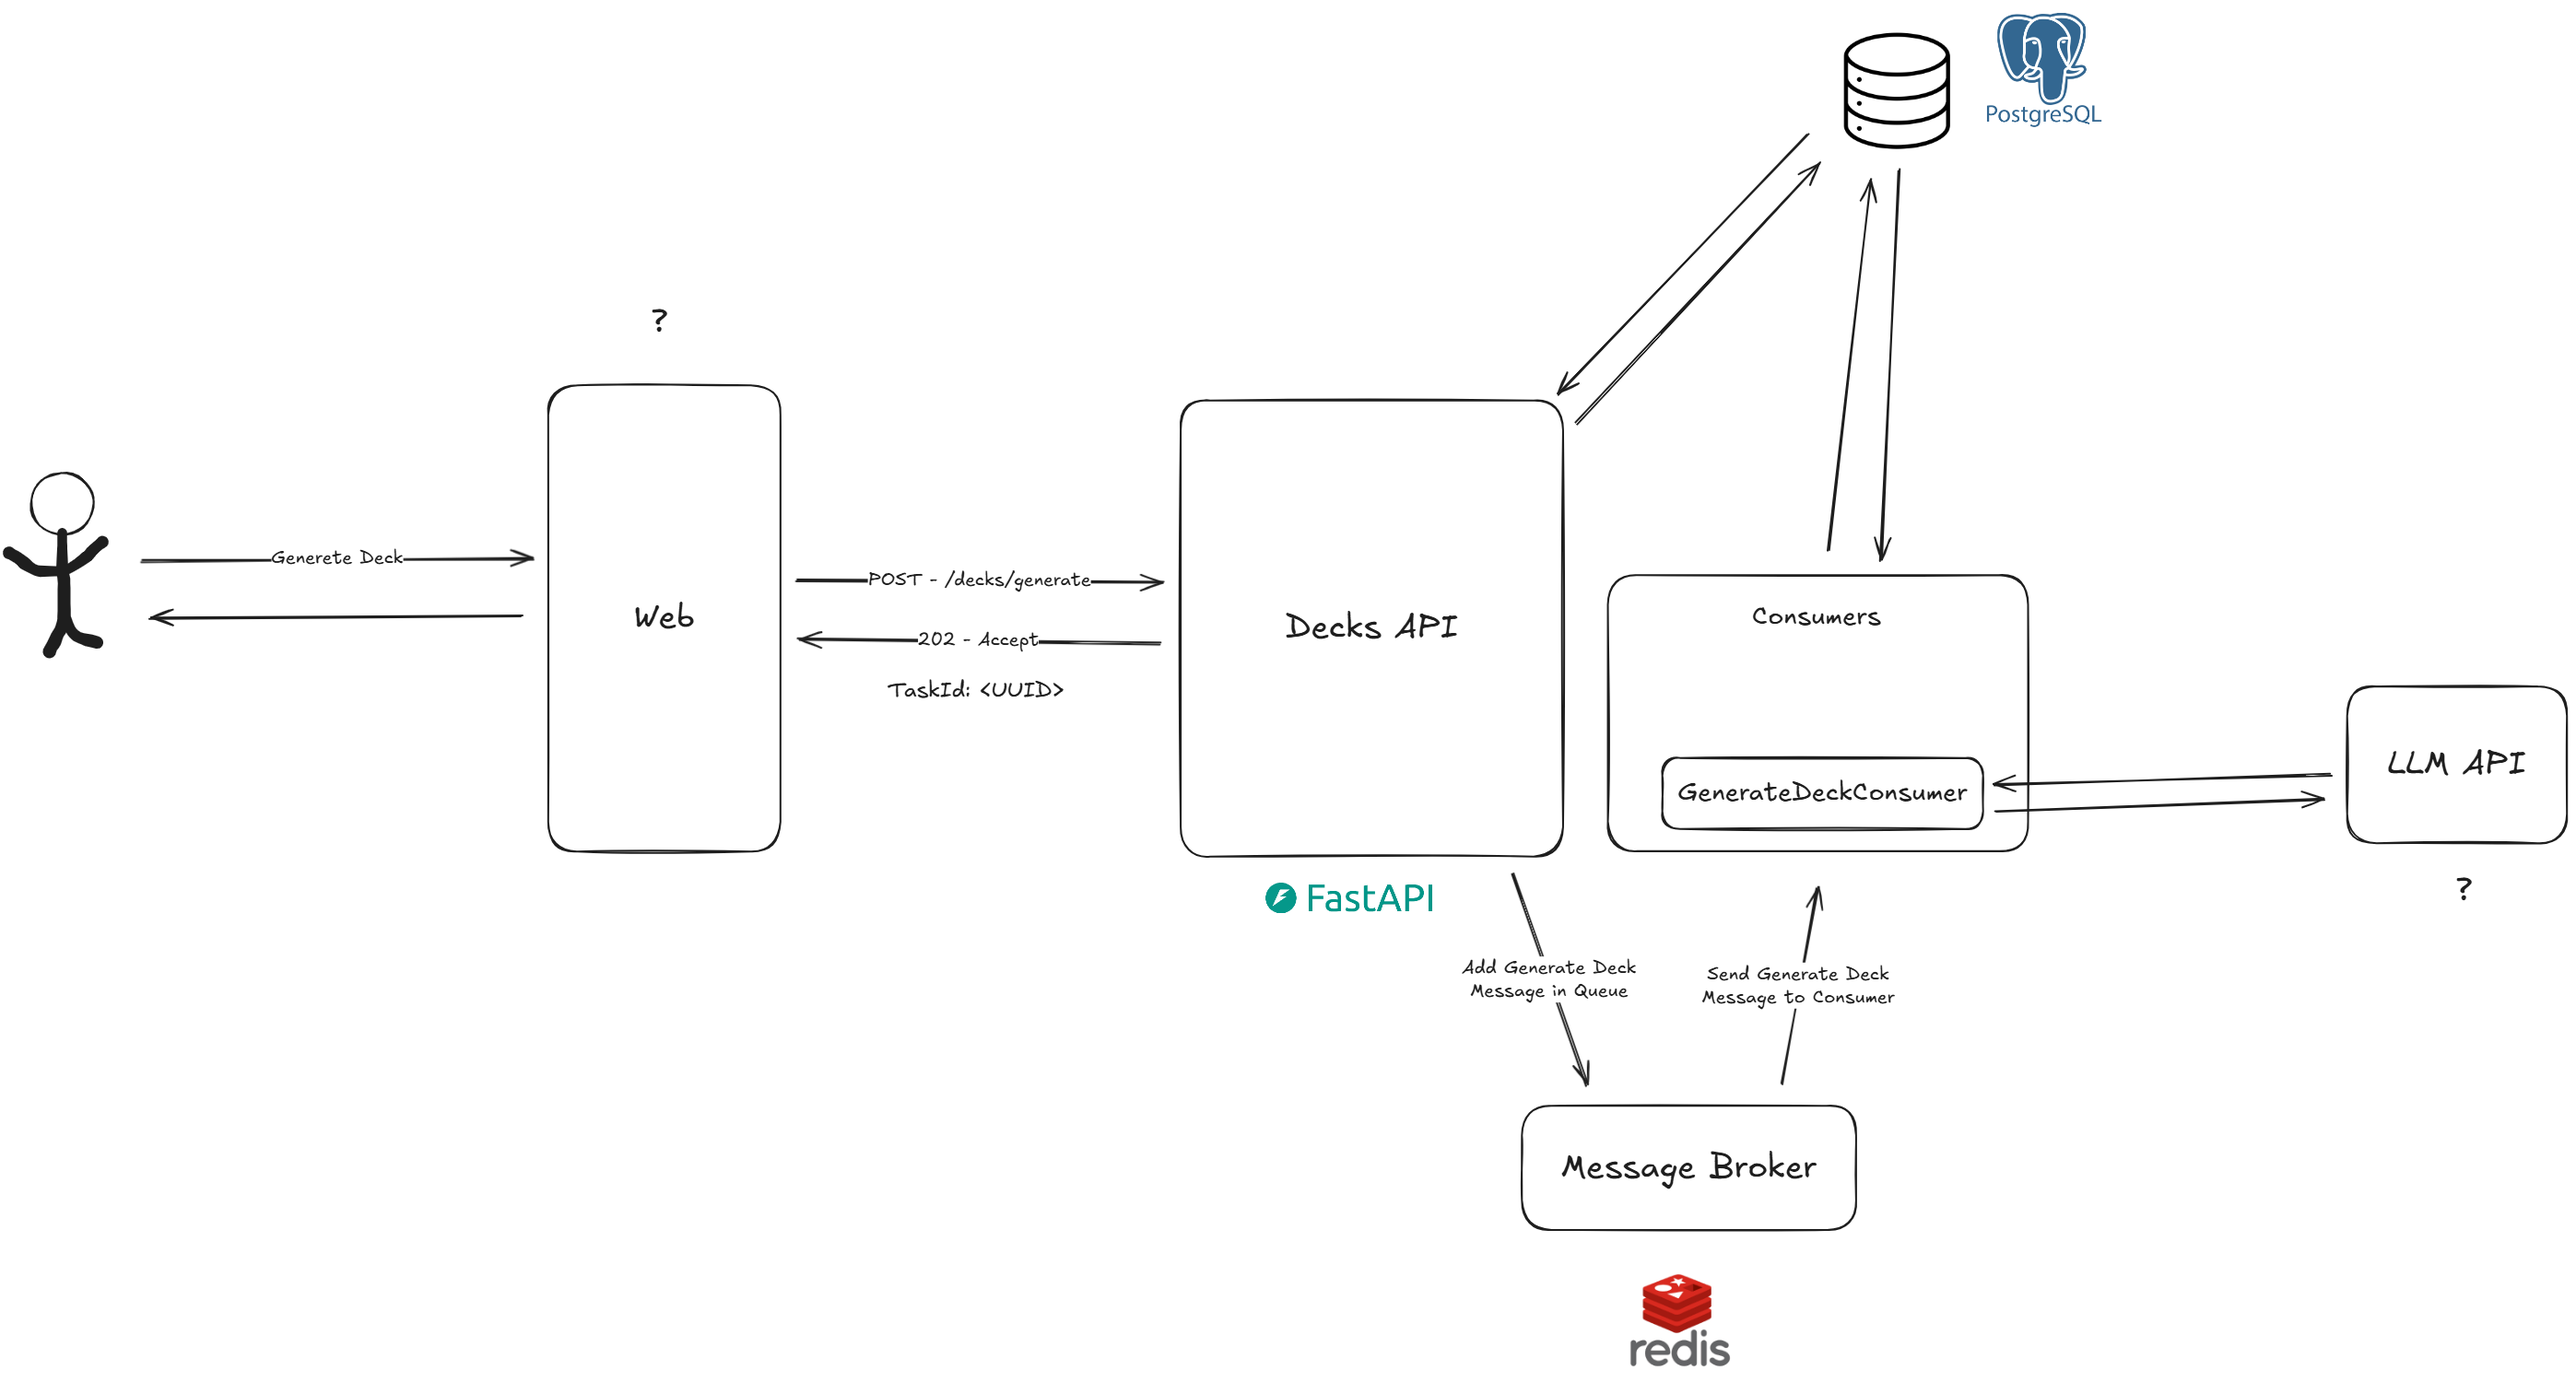
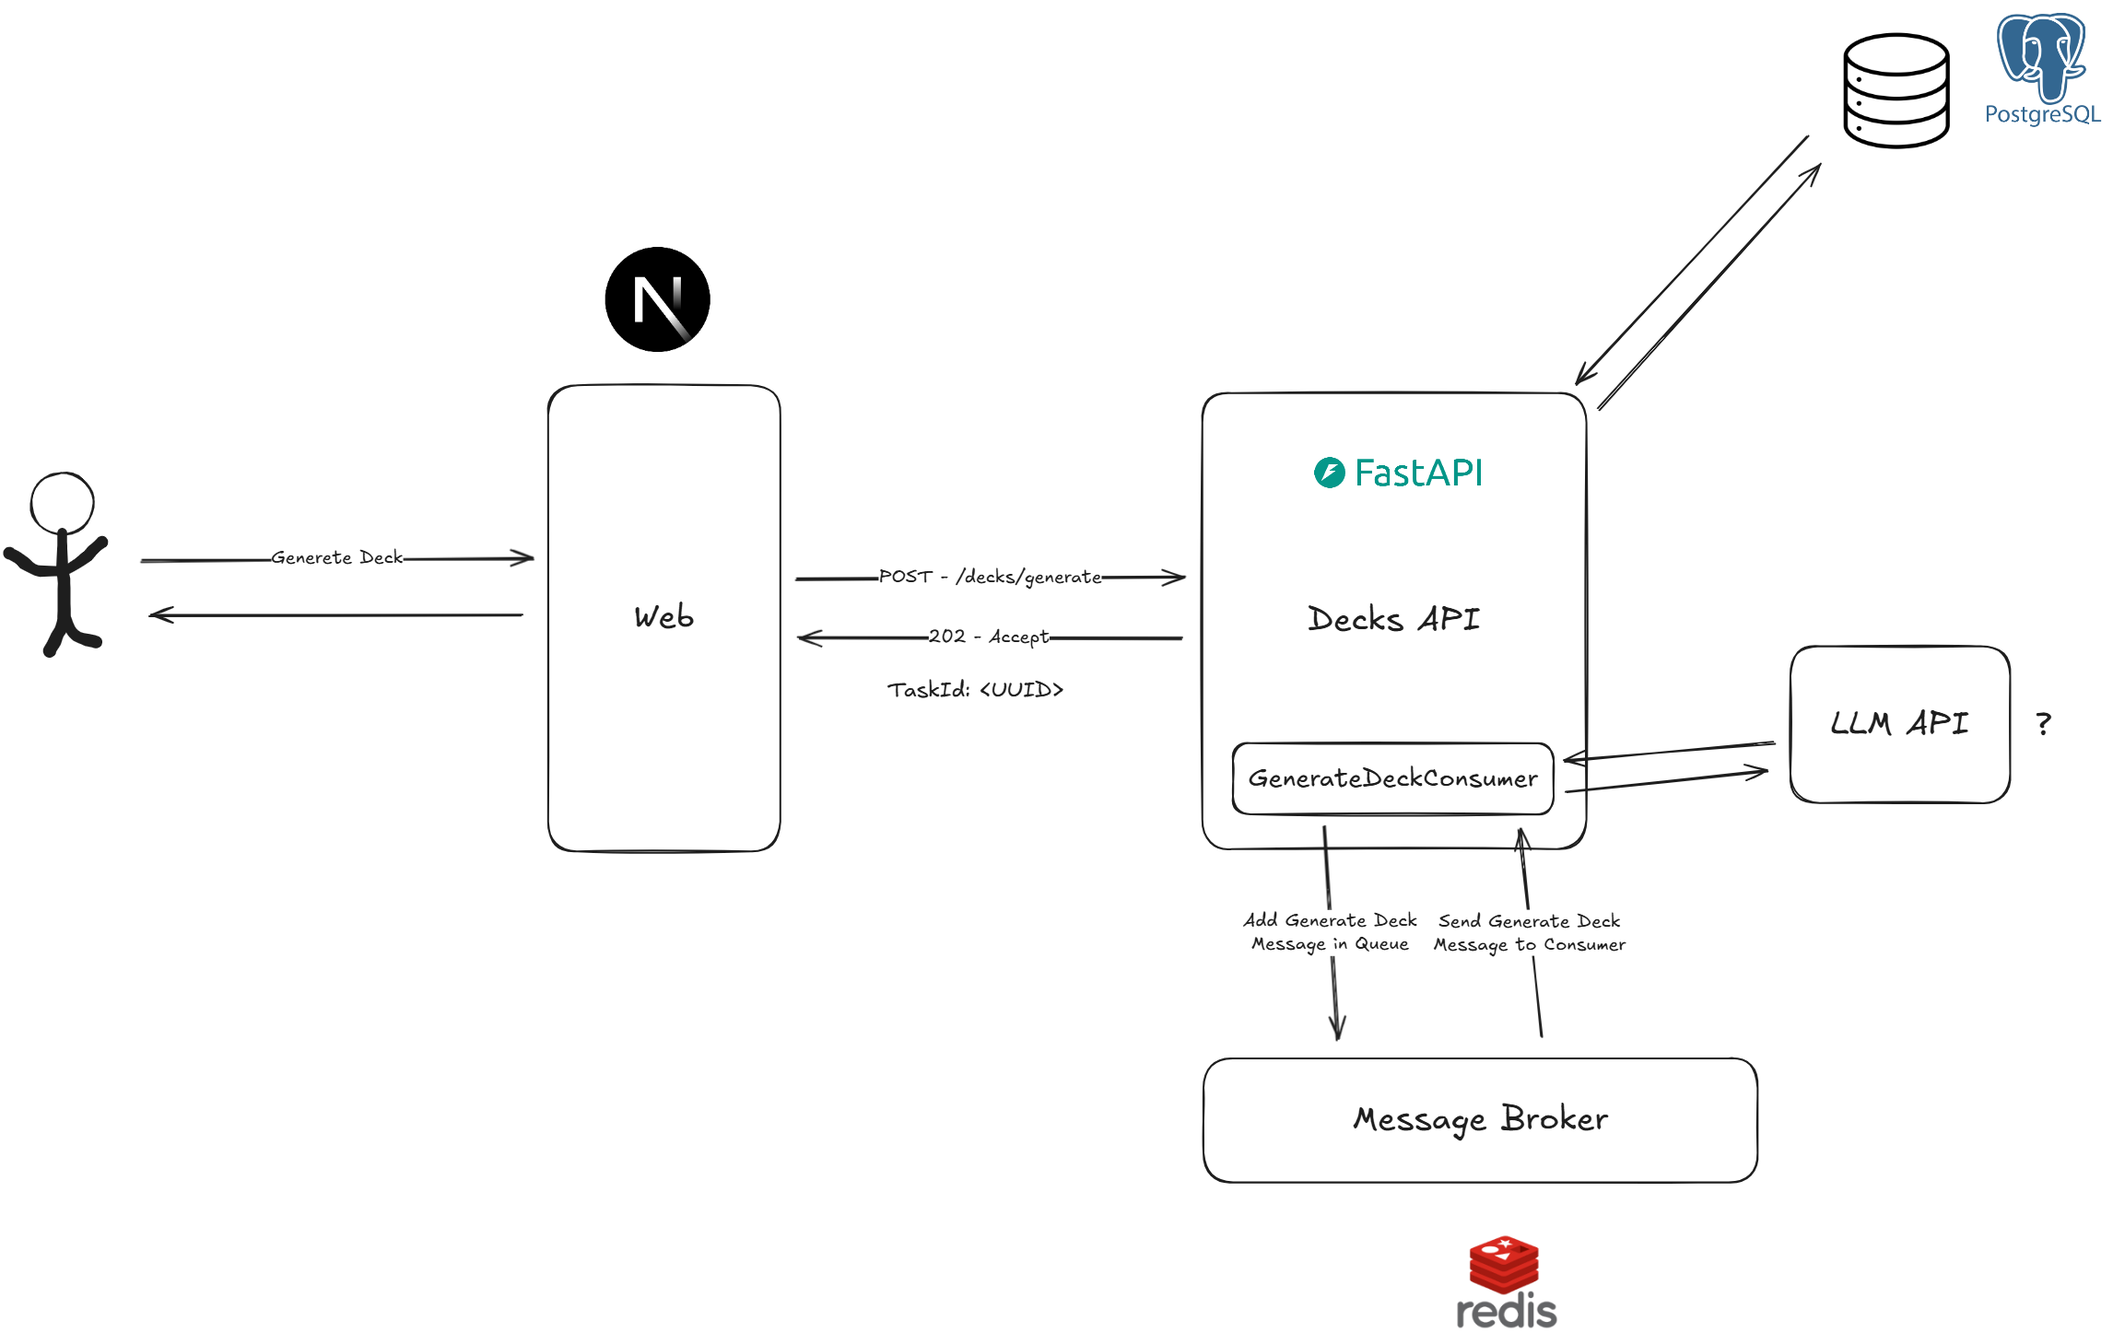
docs(): updated decisions with web app

diff --git a/README.md b/README.md
@@ -18,12 +18,7 @@ Esse projeto é uma plataforma de estudos através de FlashCards, onde as coleç
 
 ### Stack
 
-- Web App: React?/NextJS?
-
-- Authentication:
-
-  - Manager: NextJS?/FastAPI?
-  - Provider: Self?/External IAM?
+- Web App: NextJS
 
 - Decks API: FastAPI
 
@@ -32,10 +27,20 @@ Esse projeto é uma plataforma de estudos através de FlashCards, onde as coleç
   - Consumer Library: FastStream?/Celery?/Taskiq?
 
 - Database: PostgreSQL
-- Object Store: S3?/Azure Blob?/Supabase?
 - Message Broker: Redis
+- Object Store: S3?/Azure Blob?/Supabase?
+
+- Authentication:
+
+  - Manager: Pending (FastAPI provalemente)
+  - Provider: Pending (Implementação propria provavelmente)
 
 ### Decisões
+
+- Web App
+
+  - Foi escolhido o [NextJS](https://nextjs.org/) por conta das funcionalidades proporcionadas por ele de utilizar Server side rendering e cache, dado que foi avaliado um bom caso de uso para a página da biblioteca que será compartilhada entre usuários.
+  - Dado a proximidade do grupo com o [React](https://react.dev/) a curva de aprendizado será baixa, e é esperado que os desenvolvedores se aprendam rapidamente.
 
 - Decks API
 
